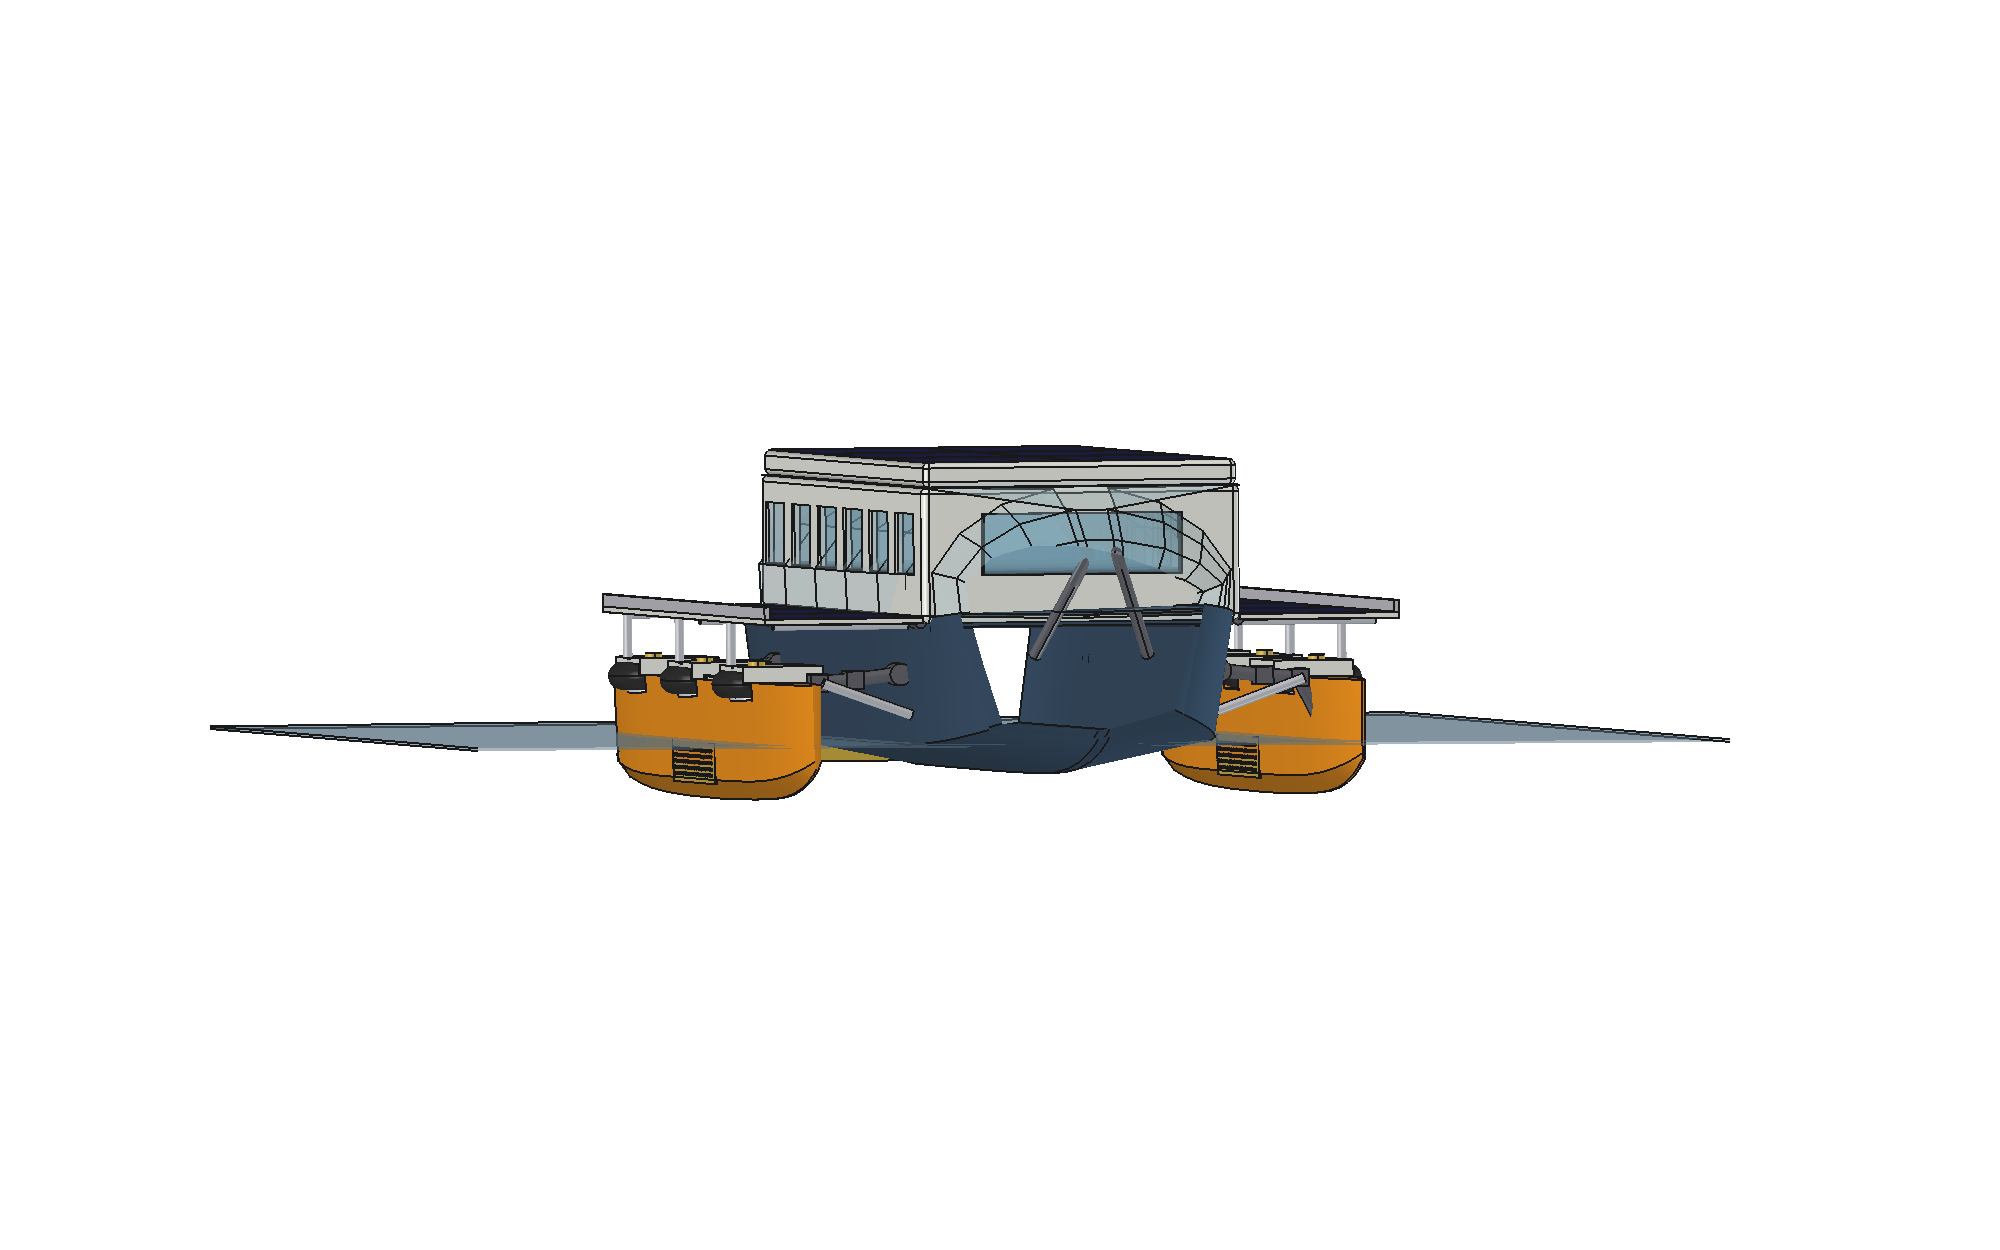
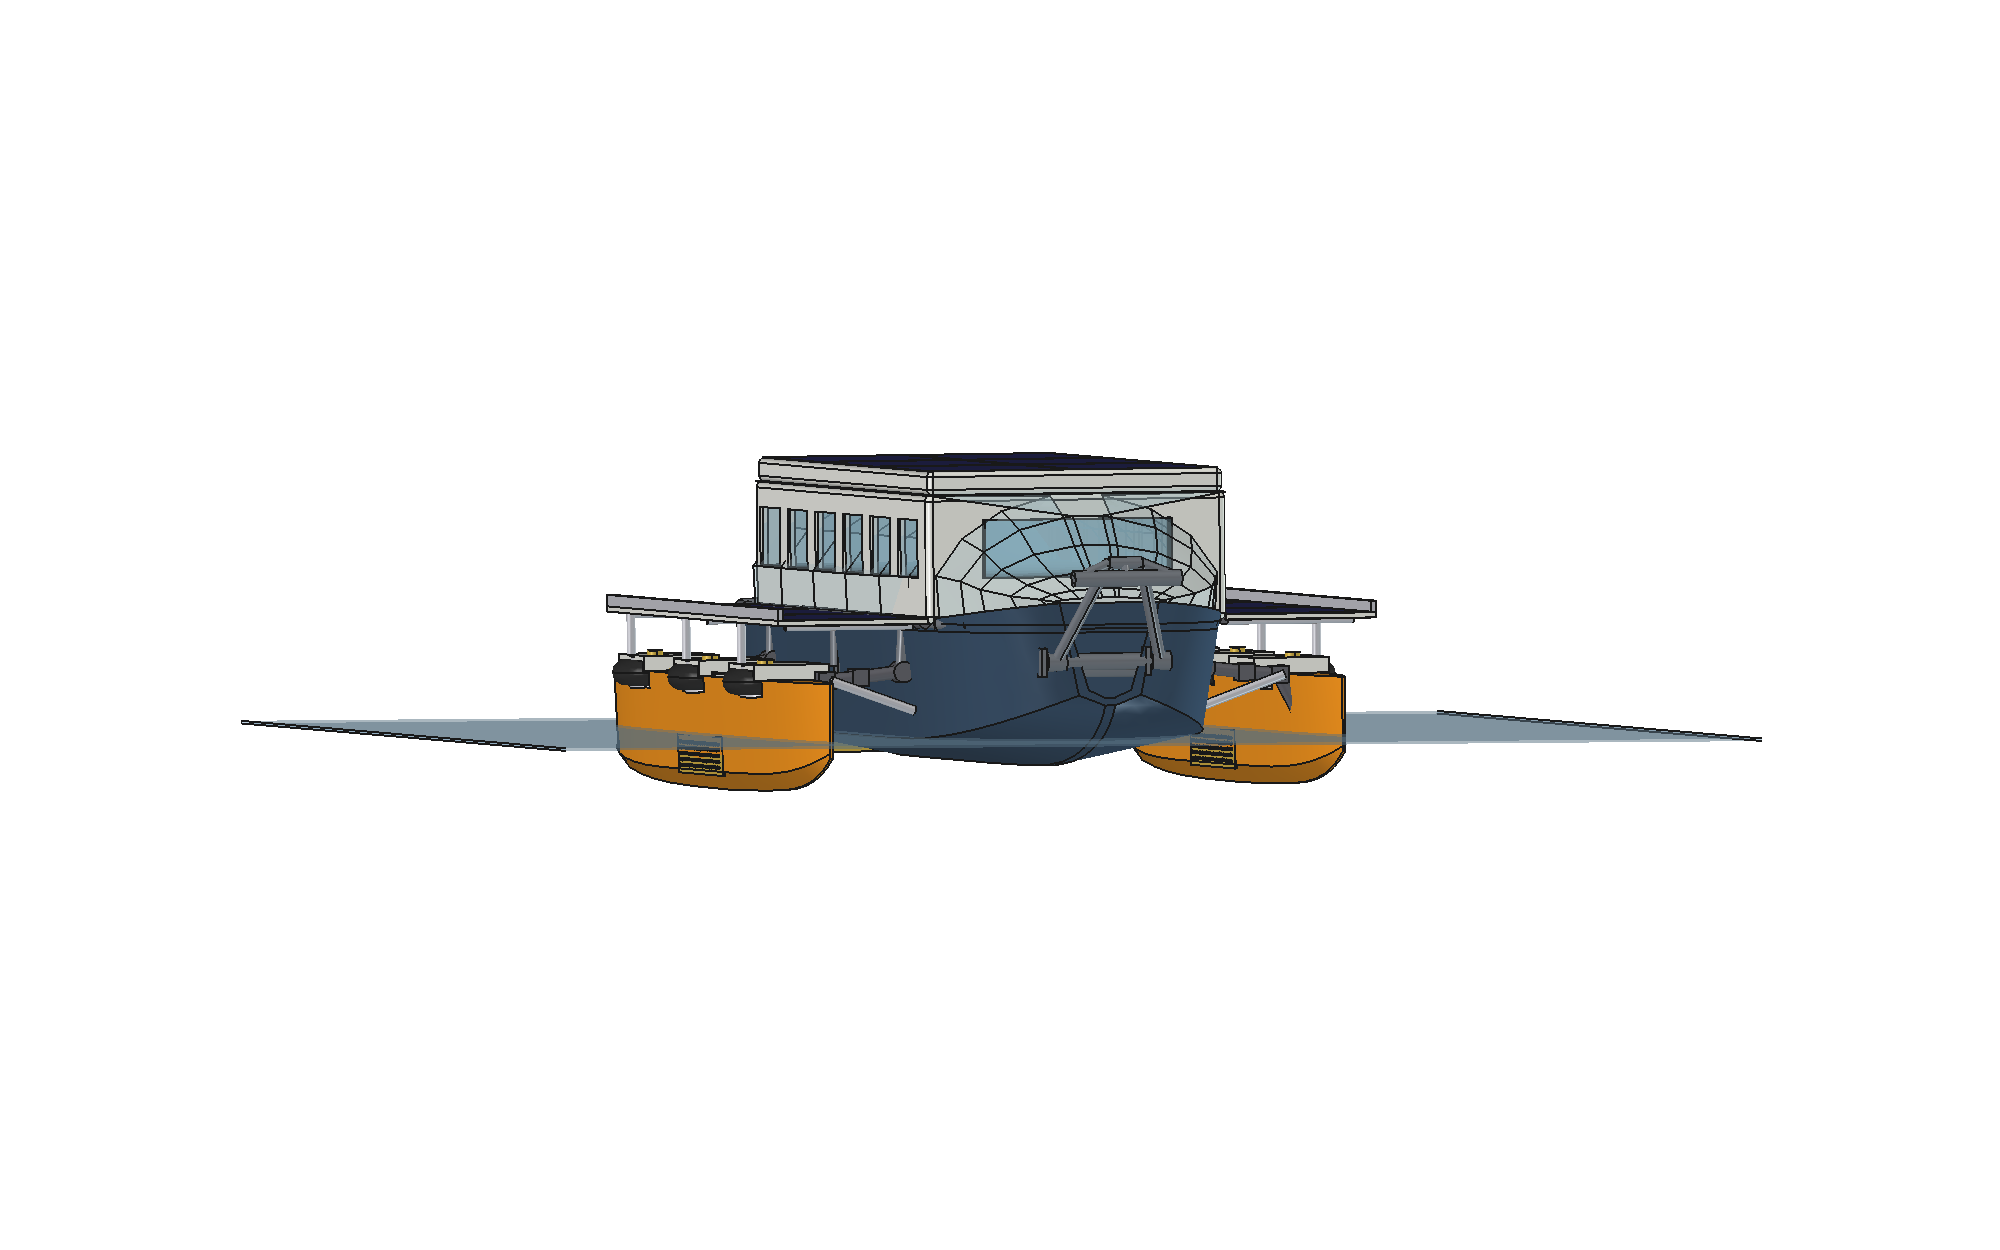
Exoskeleton frame, two-pose tow arch, closed foredeck
Foredeck: deck plate now closes the top of the hull over its whole
length; the sheer rising forward reads as a bow bulwark. No open
cavity at the bow.

Exoskeleton: external steel space frame takes every concentrated load
off the hull skin — two full-length sheer rails, three cross-beams
passing straight through the float-arm shoulder pins (float load goes
rail-to-rail), posts, bow ring and stern ring. Float arms, solar
balcony hinges, tow arch and fenders all mount to the frame.

Tow arch: one A-arch on transverse pivots at the stem, pin-locked in
two poses like the float arms. Sea +55 deg: apex 495 mm proud of the
stem as a collision bar / pulpit. Land -27 deg: swings down and the
tongue telescopes out to a coupling 457 mm above ground, 1687 mm
overhang. Asserted clearances: 34 mm proud of the hull at the pivots,
legs pass ~390 mm below the winter-garden glass.

docs/structure.md added; glossary and README updated.

Changed region(s): [[0.093, 0.3432, 0.868, 0.6552]]

diff --git a/freecad/build_boat.py b/freecad/build_boat.py
@@ -81,8 +81,12 @@ def hull_sections(inner=False):
 
 
 def build_hull():
-    shell = loft_sections(hull_sections()).cut(
-        loft_sections(hull_sections(inner=True)))
+    outer = loft_sections(hull_sections())
+    shell = outer.cut(loft_sections(hull_sections(inner=True)))
+    # deck plate closes the top over the whole length (the sheer rises
+    # forward, so the extra height forward becomes a bow bulwark)
+    shell = shell.fuse(outer.common(
+        box(P.LOA + 400, 3200, 60, (-200, -1600, DECK_Z - 60))))
     shell = shell.cut(plan_prism(       # cabin-footprint deck opening
         [(P.CABIN_X0 + 50, -P.CABIN_W / 2 + 70),
          (P.CABIN_X1 - 50, -P.CABIN_W / 2 + 70),
@@ -411,11 +415,79 @@ def build_balcony(fold_deg):
 # ---------------------------------------------------------------
 # Bow hydrofoil, drawbar, stern pod
 # ---------------------------------------------------------------
-def build_drawbar(deployed):
-    tip = ((P.LOA + P.DRAWBAR_LEN, 0, P.GROUND_Z + P.COUPLING_H)
-           if deployed else (7050, 0, 1900))
-    parts = [rod((6500, s * 430, 900), tip, 90) for s in (-1, 1)]
-    parts.append(Part.makeSphere(80, Vector(*tip)))
+def build_frame():
+    """External steel space frame (docs/structure.md): two sheer rails,
+    transverse cross-beams through the float-arm shoulder pins, posts,
+    bow ring carrying the tow arch, stern ring. All concentrated loads
+    land here instead of on the hull skin."""
+    def gunw(x):
+        st = P.STATIONS
+        for i in range(len(st) - 1):
+            if st[i][0] <= x <= st[i + 1][0]:
+                t = (x - st[i][0]) / (st[i + 1][0] - st[i][0])
+                return st[i][1] + t * (st[i + 1][1] - st[i][1])
+        return st[-1][1]
+
+    parts = []
+    rail_x = [100, 600, 1400, 2400, 3400, 4400, 5400, 6200, 6600]
+    for sgn in (-1, 1):
+        pts = [(x, sgn * (gunw(x) - P.FRAME_RAIL_INSET), P.SH_Z + 390)
+               for x in rail_x]
+        pts.append((P.ARCH_PIVOT_X, sgn * P.ARCH_PIVOT_Y, P.ARCH_PIVOT_Z))
+        for a, b_ in zip(pts, pts[1:]):
+            parts.append(rod(a, b_, P.FRAME_TUBE))
+    # cross-beams straight through both shoulder pins + posts up to rails
+    for bx in P.FRAME_BEAM_X:
+        parts.append(rod((bx, -P.SH_Y, P.SH_Z), (bx, P.SH_Y, P.SH_Z),
+                         P.FRAME_BEAM))
+        for sgn in (-1, 1):
+            parts.append(rod((bx, sgn * P.SH_Y, P.SH_Z),
+                             (bx, sgn * (gunw(bx) - P.FRAME_RAIL_INSET),
+                              P.SH_Z + 390), P.FRAME_TUBE - 20))
+    # bow ring (tow-arch pivots) and stern ring
+    parts.append(rod((P.ARCH_PIVOT_X, -P.ARCH_PIVOT_Y, P.ARCH_PIVOT_Z),
+                     (P.ARCH_PIVOT_X, P.ARCH_PIVOT_Y, P.ARCH_PIVOT_Z),
+                     P.FRAME_BEAM))
+    parts.append(rod((120, -(gunw(120) - P.FRAME_RAIL_INSET), P.SH_Z + 390),
+                     (120, gunw(120) - P.FRAME_RAIL_INSET, P.SH_Z + 390),
+                     P.FRAME_BEAM))
+    return Part.makeCompound(parts)
+
+
+def build_tow(pose):
+    """Tow arch: bow protection bar (sea) / extensible drawbar (land).
+    Pin-locked in both positions, like the float arms."""
+    deg = P.ARCH_SEA_DEG if pose == "sea" else P.ARCH_LAND_DEG
+    ax, az = P.arch_apex(deg)
+    parts = []
+    for sgn in (-1, 1):                       # legs, pivot -> apex yoke
+        parts.append(rod((P.ARCH_PIVOT_X, sgn * P.ARCH_PIVOT_Y,
+                          P.ARCH_PIVOT_Z), (ax, sgn * 130, az), P.ARCH_TUBE))
+        parts.append(Part.makeCylinder(       # pivot boss + lock-pin ears
+            P.ARCH_TUBE / 2 + 26, 150,
+            Vector(P.ARCH_PIVOT_X, sgn * P.ARCH_PIVOT_Y - 75,
+                   P.ARCH_PIVOT_Z), Vector(0, 1, 0)))
+        parts.append(box(120, 40, 220,
+                         (P.ARCH_PIVOT_X - 60, sgn * P.ARCH_PIVOT_Y - 130,
+                          P.ARCH_PIVOT_Z - 110)))
+    parts.append(rod((ax, -130, az), (ax, 130, az), P.ARCH_TUBE))
+    if pose == "sea":
+        # rub bar across the front: this is what hits the dock, not the hull
+        parts.append(rod((ax + 60, -430, az - 120), (ax + 60, 430, az - 120),
+                         P.ARCH_TUBE + 30))
+        for sgn in (-1, 1):
+            parts.append(rod((ax, sgn * 130, az),
+                             (ax + 60, sgn * 430, az - 120), P.ARCH_TUBE - 20))
+        parts.append(rod((ax, 0, az), (ax + 60, 0, az - 120), 70))
+    else:
+        cx, cz = P.arch_coupling()
+        parts.append(rod((ax, 0, az), (cx, 0, cz), P.ARCH_TUBE - 10))
+        for sgn in (-1, 1):                   # A-frame triangulation
+            parts.append(rod((ax, sgn * 130, az),
+                             ((ax + cx) / 2, 0, (az + cz) / 2),
+                             P.ARCH_TUBE - 35))
+        parts.append(Part.makeSphere(80, Vector(cx, 0, cz)))
+        parts.append(box(70, 150, 150, (cx - 220, -75, cz - 40)))
     return Part.makeCompound(parts)
 
 
@@ -546,7 +618,8 @@ def build_mode(mode):
         for i, r in enumerate(rims):
             add(f"Rim{side}{i}", m(r), STEEL, group=g_gear)
 
-    add("Drawbar", build_drawbar(cfg["drawbar"]), GRAY)
+    add("Frame", build_frame(), (0.42, 0.44, 0.47))
+    add("TowArch", build_tow(cfg["tow"]), (0.42, 0.44, 0.47))
     add("MainJet", build_main_jet(), (0.8, 0.65, 0.2))
     add("WinterGarden", build_wintergarden(), (0.75, 0.88, 0.92), 70)
 

diff --git a/freecad/params.py b/freecad/params.py
@@ -171,9 +171,40 @@ WG_APEX_CABIN = 2210     # glass crown over the cabin (roof lid above)
 WG_TOP_HW = 1195         # glass meets the roof-lid edge here
 WG_EDGE_INSET = 30       # bottom edge inset from the gunwale line
 
-# ---- drawbar + stern pod ----
-DRAWBAR_LEN = 1600
-COUPLING_H = 430
+# ---- exoskeleton: external steel space frame ----
+# Everything mounts on the frame, not the hull skin: float-arm shoulder
+# pins, balcony hinges, tow arch, fenders. The hull then only carries
+# hydrostatic pressure and its own distributed loads.
+#   - 2 sheer rails (chassis rails) running the full length at the
+#     gunwale, tube 110
+#   - transverse CROSS-BEAMS at the arm stations at exactly SH_Z, so
+#     each float's load passes rail-to-rail through one beam instead of
+#     into the hull side
+#   - posts tying cross-beam ends up to the rails
+#   - bow ring (carries the tow arch pivots) + stern ring (jet, platform)
+FRAME_TUBE = 110
+FRAME_BEAM = 130
+FRAME_RAIL_INSET = 40         # rails sit just inside the gunwale line
+FRAME_BEAM_X = (1400, 3400, 5400)
+
+# ---- tow arch: bow protection bar <-> extensible drawbar ----
+# One A-arch on transverse pivots at the bow ring, pin-locked in two
+# positions (same principle as the float arms):
+#   SEA  +55 deg: arch stands up and forward of the stem — takes the
+#                 hit in a collision, doubles as pulpit/anchor gantry
+#   LAND -25 deg: arch swings down-forward, telescoping tongue extends
+#                 and pins out to the car coupling
+ARCH_PIVOT_X = 7150   # at the stem: clear of the hull and the glass
+ARCH_PIVOT_Y = 420    # ~85 mm proud of the hull surface there
+ARCH_PIVOT_Z = 860
+ARCH_LEG = 950
+ARCH_SEA_DEG = 55
+ARCH_LAND_DEG = -27
+ARCH_EXT = 1000               # telescoping tongue stroke
+ARCH_TUBE = 95
+COUPLING_H = 430              # target coupling height above ground
+
+# ---- stern pod ----
 STERNPOD_DIA = 300
 STERNPOD_LEN = 700
 
@@ -182,12 +213,26 @@ STERNPOD_LEN = 700
 # balc: 90 folded up over the windows, 0 horizontal over the water
 # roll is NOT independent: rigid arm -> roll = 90 - phi
 MODES = {
-    "road":    dict(phi=0,         balc=90, drawbar=True,  lift=0),
-    "launch":  dict(phi=0,         balc=90, drawbar=False, lift=0),
-    "harbor":  dict(phi=0,         balc=90, drawbar=False, lift=0),
-    "cruise":  dict(phi=PHI_WATER, balc=0,  drawbar=False, lift=0),
-    "anchor":  dict(phi=PHI_WATER, balc=0,  drawbar=False, lift=CANOPY_LIFT),
+    "road":    dict(phi=0,         balc=90, tow="land", lift=0),
+    "launch":  dict(phi=0,         balc=90, tow="land", lift=0),
+    "harbor":  dict(phi=0,         balc=90, tow="sea",  lift=0),
+    "cruise":  dict(phi=PHI_WATER, balc=0,  tow="sea",  lift=0),
+    "anchor":  dict(phi=PHI_WATER, balc=0,  tow="sea",  lift=CANOPY_LIFT),
 }
+
+
+def arch_apex(deg):
+    """Tow-arch apex (x, z) at a given leg angle from horizontal."""
+    r = math.radians(deg)
+    return (ARCH_PIVOT_X + ARCH_LEG * math.cos(r),
+            ARCH_PIVOT_Z + ARCH_LEG * math.sin(r))
+
+
+def arch_coupling():
+    """Coupling ball (x, z) with the tongue fully extended, land pose."""
+    ax, az = arch_apex(ARCH_LAND_DEG)
+    r = math.radians(ARCH_LAND_DEG)
+    return (ax + ARCH_EXT * math.cos(r), az + ARCH_EXT * math.sin(r))
 
 
 def naca_pts(chord, t=0.12, n=20):
@@ -271,6 +316,14 @@ def checks(verbose=True):
     assert BALC_HINGE_Z + BALC_SPAN <= CABIN_ROOF_Z + CANOPY_THICK + 50, \
         "folded balcony sticks above the canopy"
     assert 100 <= box_gap <= 450, f"balcony leg length odd: {box_gap}"
+    # tow arch: coupling height on the road, protection reach at sea
+    cpl_x, cpl_z = arch_coupling()
+    cpl_h = cpl_z - GROUND_Z
+    sea_x, sea_z = arch_apex(ARCH_SEA_DEG)
+    assert 380 <= cpl_h <= 480, f"coupling height {cpl_h:.0f} mm off-spec"
+    assert cpl_x - LOA <= 2000, f"drawbar overhang {cpl_x - LOA:.0f} too long"
+    assert sea_x > LOA + 250, "protection arch not proud of the stem"
+    assert 2 * ARCH_PIVOT_Y + ARCH_TUBE <= 2550, "tow arch wider than road"
     # jack-up stance equilibrium
     jack_d = FLOAT_W * BOAT_MASS / (2 * reserve_kg)      # submerged depth
     harbor_wl = (POD_ROAD[1] - FLOAT_W / 2) + jack_d     # ~0 = keel awash
@@ -303,6 +356,8 @@ def checks(verbose=True):
         print(f"balcony legs    {box_gap:.0f} mm down to the wheel boxes")
         print(f"waterjets       3 x {JET_POWER_W} W, grid top "
               f"{WL_Z - grid_top:.0f} mm under WL, face v {face_v:.2f} m/s")
+        print(f"tow arch       sea apex {sea_x - LOA:.0f} mm proud of stem, "
+              f"land coupling {cpl_h:.0f} mm high, overhang {cpl_x - LOA:.0f}")
         print(f"jack-up stance  floats {jack_frac * 100:.0f}% deep, "
               f"keel {-harbor_wl:.0f} mm above water (awash), "
               f"pontoon GM ~{gm_est:.1f} m")

diff --git a/docs/structure.md b/docs/structure.md
@@ -1,0 +1,100 @@
+# Exoskeleton & Tow Arch
+
+Status: design study. Geometry in `freecad/params.py` (`FRAME_*`,
+`ARCH_*`), shapes in `freecad/build_boat.py` (`build_frame`,
+`build_tow`), limits asserted in `checks()`. Terms in
+[glossary.md](glossary.md).
+
+## 1. Why an exoskeleton
+
+Every heavy fitting on this boat pulls on one small patch of hull:
+each float arm carries ~1 000 kg through a single shoulder pin, the
+balconies hang off the gunwale, the tow puts the whole 2 t through the
+bow. A GRP/plywood hull skin hates point loads — it wants distributed
+pressure.
+
+So the loads never touch the skin. An external steel space frame
+carries them, and the hull is left to do only what a hull is good at:
+resist water pressure and carry its own distributed weight.
+
+```
+                 sheer rail (both sides, full length)
+   ┌═══════════════════════════════════════════════┐
+   ║   post          post           post           ║   ← bow ring
+   ║    │             │              │             ║     (tow pivots)
+   ╠════╪═════════════╪══════════════╪═════════════╣
+   ║  ══╪══         ══╪══          ══╪══           ║   ← CROSS-BEAMS at
+   ║ shoulder      shoulder       shoulder         ║     the shoulder pins
+   └═══════════════════════════════════════════════┘
+     stern ring                    x 1400 / 3400 / 5400
+```
+
+**Members**
+
+| Member | Section | Job |
+|---|---|---|
+| 2 × sheer rail | ⌀110 tube, full length, 40 mm inside the gunwale | main chassis rails; carry balcony hinges, fenders, deck edge |
+| 3 × cross-beam | ⌀130 tube, at z 760 spanning y ±1210 | each passes **straight through both shoulder pins**, so a float's load goes rail-to-rail, not into the hull side |
+| 4 × post | ⌀90 tube | tie cross-beam ends up to the rails |
+| bow ring | ⌀130 tube | carries the tow-arch pivots at the stem |
+| stern ring | ⌀130 tube | transom tie, main waterjet and platform mounts |
+
+**What bolts to it**: float-arm shoulder pins (cross-beams), solar
+balcony hinges (rails), tow arch (bow ring), quay fender rails
+(rails), jack pads. Nothing structural lands on the hull skin.
+
+**Bonus**: the frame is one weldment that can be built and jigged
+before the hull, and the hull can be repaired or even replaced inside
+it. It is also the natural earth/bonding path for the 48 V system.
+
+## 2. Tow arch — one part, two jobs
+
+A single A-arch on transverse pivots at the stem, pin-locked in two
+positions exactly like the float arms:
+
+| Pose | Leg angle | Where it sits | Function |
+|---|---|---|---|
+| **SEA** | +55° | apex 495 mm proud of the stem, 318 mm above the sheer | **collision bar** — the first thing to touch a dock, a lock wall or a log; also pulpit rail and anchor gantry |
+| **LAND** | −27° | apex swung down-forward, tongue telescoped out | **drawbar** — coupling 457 mm above the ground, 1 687 mm ahead of the transom |
+
+```
+SEA (protection)                LAND (tow)
+        ╱▔▔╲  ← rub bar
+       ╱    ╲                    pivot
+      ╱      ╲                     ●╲
+  ┌──●────────●──┐             ┌────╲──┐
+  │   bow ring   │             │      ╲╲___tongue___● coupling
+  │    hull      │             │  hull    (telescopes, pinned)
+```
+
+- **Extensible**: the tongue telescopes ~1 000 mm inside the apex yoke
+  and pins out; multiple pin holes = adjustable coupling height, the
+  standard trailer trick.
+- **Pin-locked**, not powered: two lock holes in each pivot boss (sea
+  and land), plus the tongue pins. Same discipline as the float arms —
+  the load path in each pose is a pinned triangle, not a hydraulic
+  cylinder.
+- **Geometry check** (asserted): pivots sit 34 mm proud of the hull at
+  the stem and the legs pass ~390 mm below the winter-garden glass
+  edge, so nothing fouls the glass or the hull in either pose.
+- **Why an arch and not a bar**: two legs converging to an apex is a
+  triangle in plan — it takes the sideways loads of a collision and
+  the yaw loads of towing without needing a big single-shear pivot.
+
+## 3. Foredeck closed
+
+The deck plate now closes the top of the hull over its whole length
+(the sheer rises forward, so the extra height forward reads as a bow
+**bulwark**). No open cavity at the bow; the foredeck under the winter
+garden is a usable, sealed floor.
+
+## 4. Cost sketch (2026, EUR)
+
+| Item | Est. |
+|---|---|
+| Frame steel (S355 tube, ~180 kg) + laser-cut brackets | 900 |
+| Welding/jigging (workshop or DIY) | 800 |
+| Hot-dip galvanising | 400 |
+| Tow arch tube, telescoping tongue, bosses | 350 |
+| Coupling head 2 t + safety cable + pins | 180 |
+| **Total** | **≈ 2 600** |

diff --git a/docs/glossary.md b/docs/glossary.md
@@ -60,6 +60,23 @@ Shared language for the design. Geometry values live in
 - **Bevel (mating face)** — the 12° flat machined/molded on each float
   so it sits flush on the hull bottom in road pose (zero dead space).
 
+## Structure (details in [structure.md](structure.md))
+
+- **Exoskeleton (space frame)** — external welded steel frame carrying
+  every concentrated load (float arms, balconies, tow, fenders) so the
+  hull skin only sees distributed water pressure.
+- **Sheer rail (chassis rail)** — the frame's main longitudinal tube
+  running the full length just inside the gunwale.
+- **Cross-beam** — transverse frame tube passing straight through both
+  float-arm shoulder pins; carries a float's load rail-to-rail.
+- **Bow ring / stern ring** — the frame's end frames; the bow ring
+  carries the tow-arch pivots, the stern ring the main waterjet.
+- **Tow arch** — one A-arch at the stem, pin-locked in two poses:
+  raised as a **collision bar** (sea) or swung down with a telescoping
+  tongue as the **drawbar** (land).
+- **Bulwark** — the raised sheer forward of the cabin standing above
+  the closed foredeck plate.
+
 ## Wheels & drive (details in [wheels.md](wheels.md))
 
 - **Caster mounting** — wheels on stub axles perpendicular to the float

diff --git a/README.md b/README.md
@@ -19,6 +19,8 @@ hydrostatic constraint is asserted in code.
 | Floats | 6.2 m, ~1.55 t reserve each (82 %), righting SF ≈ 4.5 |
 | Water beam | 5.06 m (trimaran), floats fold flush under hull on road |
 | Solar | 12 flexible laminates (1700×1130), ~5.2 kWp; balcony panels bifacial |
+| Structure | external steel exoskeleton carries all arm/balcony/tow loads |
+| Tow | A-arch, pin-locked: bow collision bar (sea) / extensible drawbar (land) |
 | Propulsion | 3 × 2 kW flush-intake waterjets (weed-proof), differential steering |
 | Cabin | 5.3 × 2.4 m, 1.8 m headroom; pop-top roof = chillout deck at anchor |
 
@@ -42,6 +44,7 @@ docs/
   glossary.md       shared vocabulary for every part and term
   wheels.md         wheel system: kinematics, drive, BOM + 2026 costs
   propulsion.md     waterjet system: weed strategy, BOM
+  structure.md      exoskeleton frame + two-pose tow arch
   images/           dimensioned spec cards for purchasable parts
 drafts/             original concept PDF + STL sketch
 *.scad, Makefile    legacy OpenSCAD sketch (superseded by freecad/)
